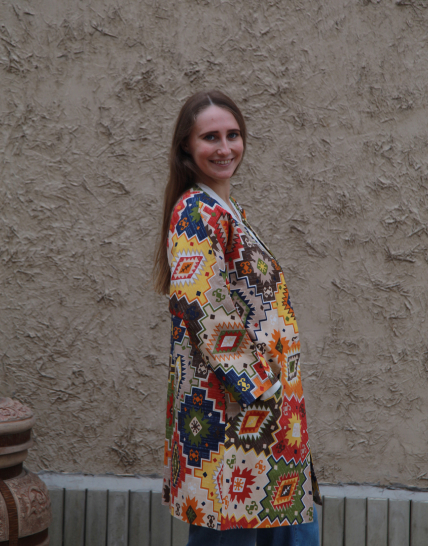
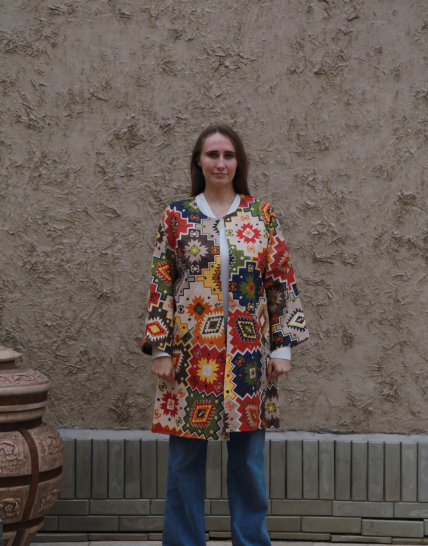
adding more images

diff --git a/src/components/itemsData.js b/src/components/itemsData.js
@@ -12,9 +12,13 @@ import suit from '../assets/images/suit.jpg'
 
 // inner images
 
-import inner_1_1 from '../assets/images/outwear-item_1-1.jpg'
-import inner_1_2 from '../assets/images/outwear-item_1-2.jpg'
-import inner_1_3 from '../assets/images/outwear-item_1-3.jpg'
+import inner_1_1 from '../assets/images/id1_1.jpg'
+import inner_1_2 from '../assets/images/id1_2.jpg'
+import inner_1_3 from '../assets/images/id1_3.jpg'
+
+import inner_id2_1 from '../assets/images/id2_1.jpg'
+import inner_id2_2 from '../assets/images/id2_2.jpg'
+import inner_id2_3 from '../assets/images/id2_3.jpg'
 
 export const categoriesList = [
   {
@@ -28,7 +32,7 @@ export const categoriesList = [
         name: 'Abaya',
         category: 'Outerwear',
         price: 126,
-        imageSrc: dress6,
+        imageSrc: inner_1_1,
         materials: 'Cashmere',
 
         deepDescription2: [
@@ -61,7 +65,7 @@ export const categoriesList = [
         name: 'Overcoat',
         category: 'Outerwear',
         price: 50,
-        imageSrc: dress2,
+        imageSrc: inner_id2_1,
 
         materials: 'Leon.',
 
@@ -87,7 +91,7 @@ export const categoriesList = [
               "Find out more about our delivery options. \n Try items in the comfort of your own home. If they're not quite right, you've got 28 days to request an exchange or return and send them back to us. We'll collect them from your home or office for free.",
           },
         ],
-        carouselImages: [inner_1_1, inner_1_2, inner_1_3],
+        carouselImages: [inner_id2_1, inner_id2_2, inner_id2_3],
       },
       {
         description:
@@ -97,7 +101,7 @@ export const categoriesList = [
         name: 'Abaya',
         category: 'Outerwear',
         price: 130,
-        imageSrc: dress2,
+        imageSrc: inner_1_1,
 
         materials: 'Cashmere',
 
@@ -131,7 +135,7 @@ export const categoriesList = [
         name: 'Overcoat',
         category: 'Outerwear',
         price: 50,
-        imageSrc: dress2,
+        imageSrc: inner_id2_1,
 
         materials: 'Leon.',
 
@@ -166,7 +170,7 @@ export const categoriesList = [
         name: 'Abaya',
         category: 'Outerwear',
         price: 130,
-        imageSrc: dress2,
+        imageSrc: inner_id2_1,
 
         materials: 'Cashmere',
 
@@ -200,7 +204,7 @@ export const categoriesList = [
         name: 'Overcoat',
         category: 'Outerwear',
         price: 103,
-        imageSrc: dress2,
+        imageSrc: inner_1_1,
 
         materials: 'Cotton, pattern on both sides',
 
@@ -234,7 +238,7 @@ export const categoriesList = [
         name: 'Abaya',
         category: 'Outerwear',
         price: 89,
-        imageSrc: dress2,
+        imageSrc: inner_id2_1,
 
         materials: 'Camel wool',
 
@@ -269,7 +273,7 @@ export const categoriesList = [
         name: 'Chapan',
         category: 'Outerwear',
         price: 112,
-        imageSrc: dress2,
+        imageSrc: inner_1_1,
 
         materials: 'Silk on the outside, cotton on the inside, reversible',
 
@@ -304,7 +308,7 @@ export const categoriesList = [
         name: 'Abaya',
         category: 'Outerwear',
         price: 133,
-        imageSrc: dress2,
+        imageSrc: inner_id2_1,
 
         materials: 'Cashmere',
 
@@ -339,7 +343,7 @@ export const categoriesList = [
         name: 'Abaya',
         category: 'Outerwear',
         price: 133,
-        imageSrc: dress2,
+        imageSrc: inner_1_1,
 
         materials: 'Cashmere',
 
@@ -374,7 +378,7 @@ export const categoriesList = [
         name: 'Abaya',
         category: 'Outerwear',
         price: 133,
-        imageSrc: dress2,
+        imageSrc: inner_id2_1,
 
         materials: 'Cashmere',
 
@@ -409,7 +413,7 @@ export const categoriesList = [
         name: 'Abaya',
         category: 'Outerwear',
         price: 133,
-        imageSrc: dress2,
+        imageSrc: inner_1_1,
 
         materials: 'Cashmere',
 
@@ -443,7 +447,7 @@ export const categoriesList = [
         name: 'Abaya',
         category: 'Outerwear',
         price: 36,
-        imageSrc: dress2,
+        imageSrc: inner_id2_1,
 
         materials: 'Silk',
 
@@ -477,7 +481,7 @@ export const categoriesList = [
         name: 'Abaya',
         category: 'Outerwear',
         price: 36,
-        imageSrc: dress2,
+        imageSrc: inner_1_1,
 
         materials: 'Silk',
 
@@ -512,7 +516,7 @@ export const categoriesList = [
         name: 'Abaya',
         category: 'Outerwear',
         price: 36,
-        imageSrc: dress2,
+        imageSrc: inner_id2_1,
 
         materials: 'Silk',
 
